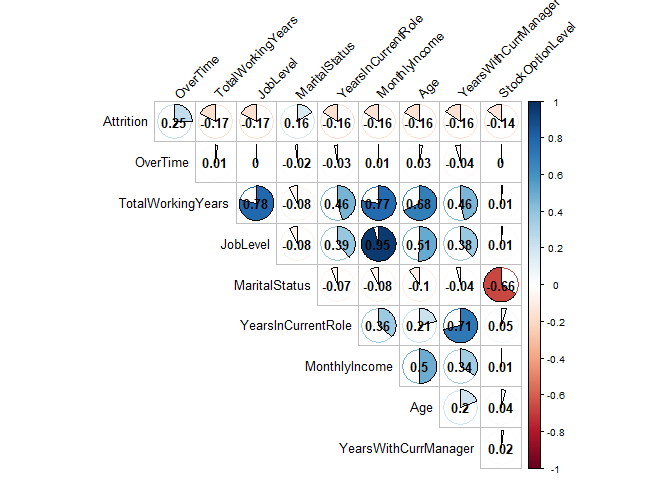
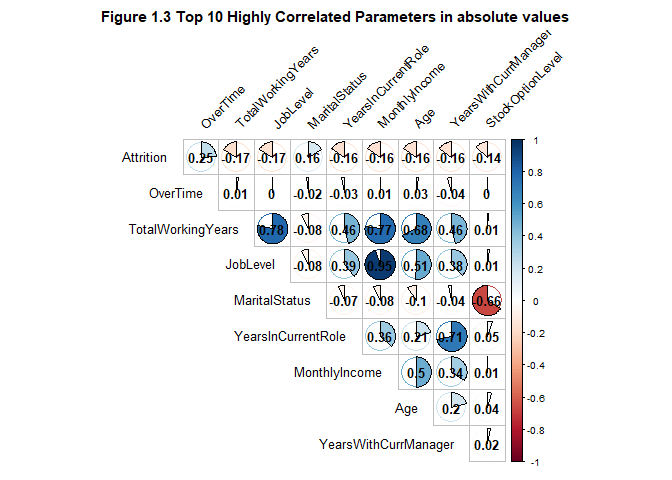
Adjusted bullet points v0.13

Changed region(s): [[0.1562, 0.0, 0.875, 1.0], [0.5, 0.0938, 0.5312, 0.125]]

diff --git a/CaseStudy2.md b/CaseStudy2.md
@@ -257,6 +257,7 @@ corrplot(as.matrix(Attcor[SAA10,SAA10]), method="pie",
          addCoef.col = "black",
          tl.col="black", tl.srt=45,
          sig.level = 0.05, insig = "blank", 
+         title="Figure 1.3 Top 10 Highly Correlated Parameters in absolute values", mar=c(0,0,2,0), tl.offset = 1, 
          diag=FALSE)
 ```
 
@@ -265,15 +266,15 @@ corrplot(as.matrix(Attcor[SAA10,SAA10]), method="pie",
 ``` r
 #Further look at top 10 absolute correlated parameters with Attrition
 par(mfrow=c(3,3), las=2)
-plot(Attrition~OverTime, data=df, main="Attrition vs Overtime")
-plot(Attrition~TotalWorkingYears, data=df, main="Attrition vs Total Working Years")
-plot(Attrition~JobLevel, data=df, main="Attrition vs Job Level")
-plot(Attrition~ MaritalStatus, data=df, main="Attrition vs Marital Status")
-plot(Attrition~YearsInCurrentRole, data=df, main="Attrition vs Years in Current Role")
-plot(Attrition~MonthlyIncome, data=df, main="Attrition vs Monthly Income")
-plot(Attrition~Age, data=df, main="Attrition vs Age")
-plot(Attrition~YearsWithCurrManager, data=df, main="Attrition vs Years with Current Manager")
-plot(Attrition~StockOptionLevel, data=df, main="Attrition vs Stock Option Level")
+plot(Attrition~OverTime, data=df, main="Overtime", xlab="", ylab="Attrition")
+plot(Attrition~TotalWorkingYears, data=df, main="Total Working Years", xlab="", ylab="")
+plot(Attrition~JobLevel, data=df, main="Job Level", xlab="", ylab="")
+plot(Attrition~MaritalStatus, data=df, main="Marital Status", xlab="", ylab="Attrition")
+plot(Attrition~YearsInCurrentRole, data=df, main="Years in Current Role", xlab="", ylab="")
+plot(Attrition~MonthlyIncome, data=df, main="Monthly Income", xlab="", ylab="")
+plot(Attrition~Age, data=df, main="Age", xlab="", ylab="Attrition")
+plot(Attrition~YearsWithCurrManager, data=df, main="Years with Current Manager", xlab="", ylab="")
+plot(Attrition~StockOptionLevel, data=df, main="Stock Option Level", xlab="", ylab="")
 ```
 
 ![](CaseStudy2_files/figure-markdown_github/unnamed-chunk-7-2.png)
